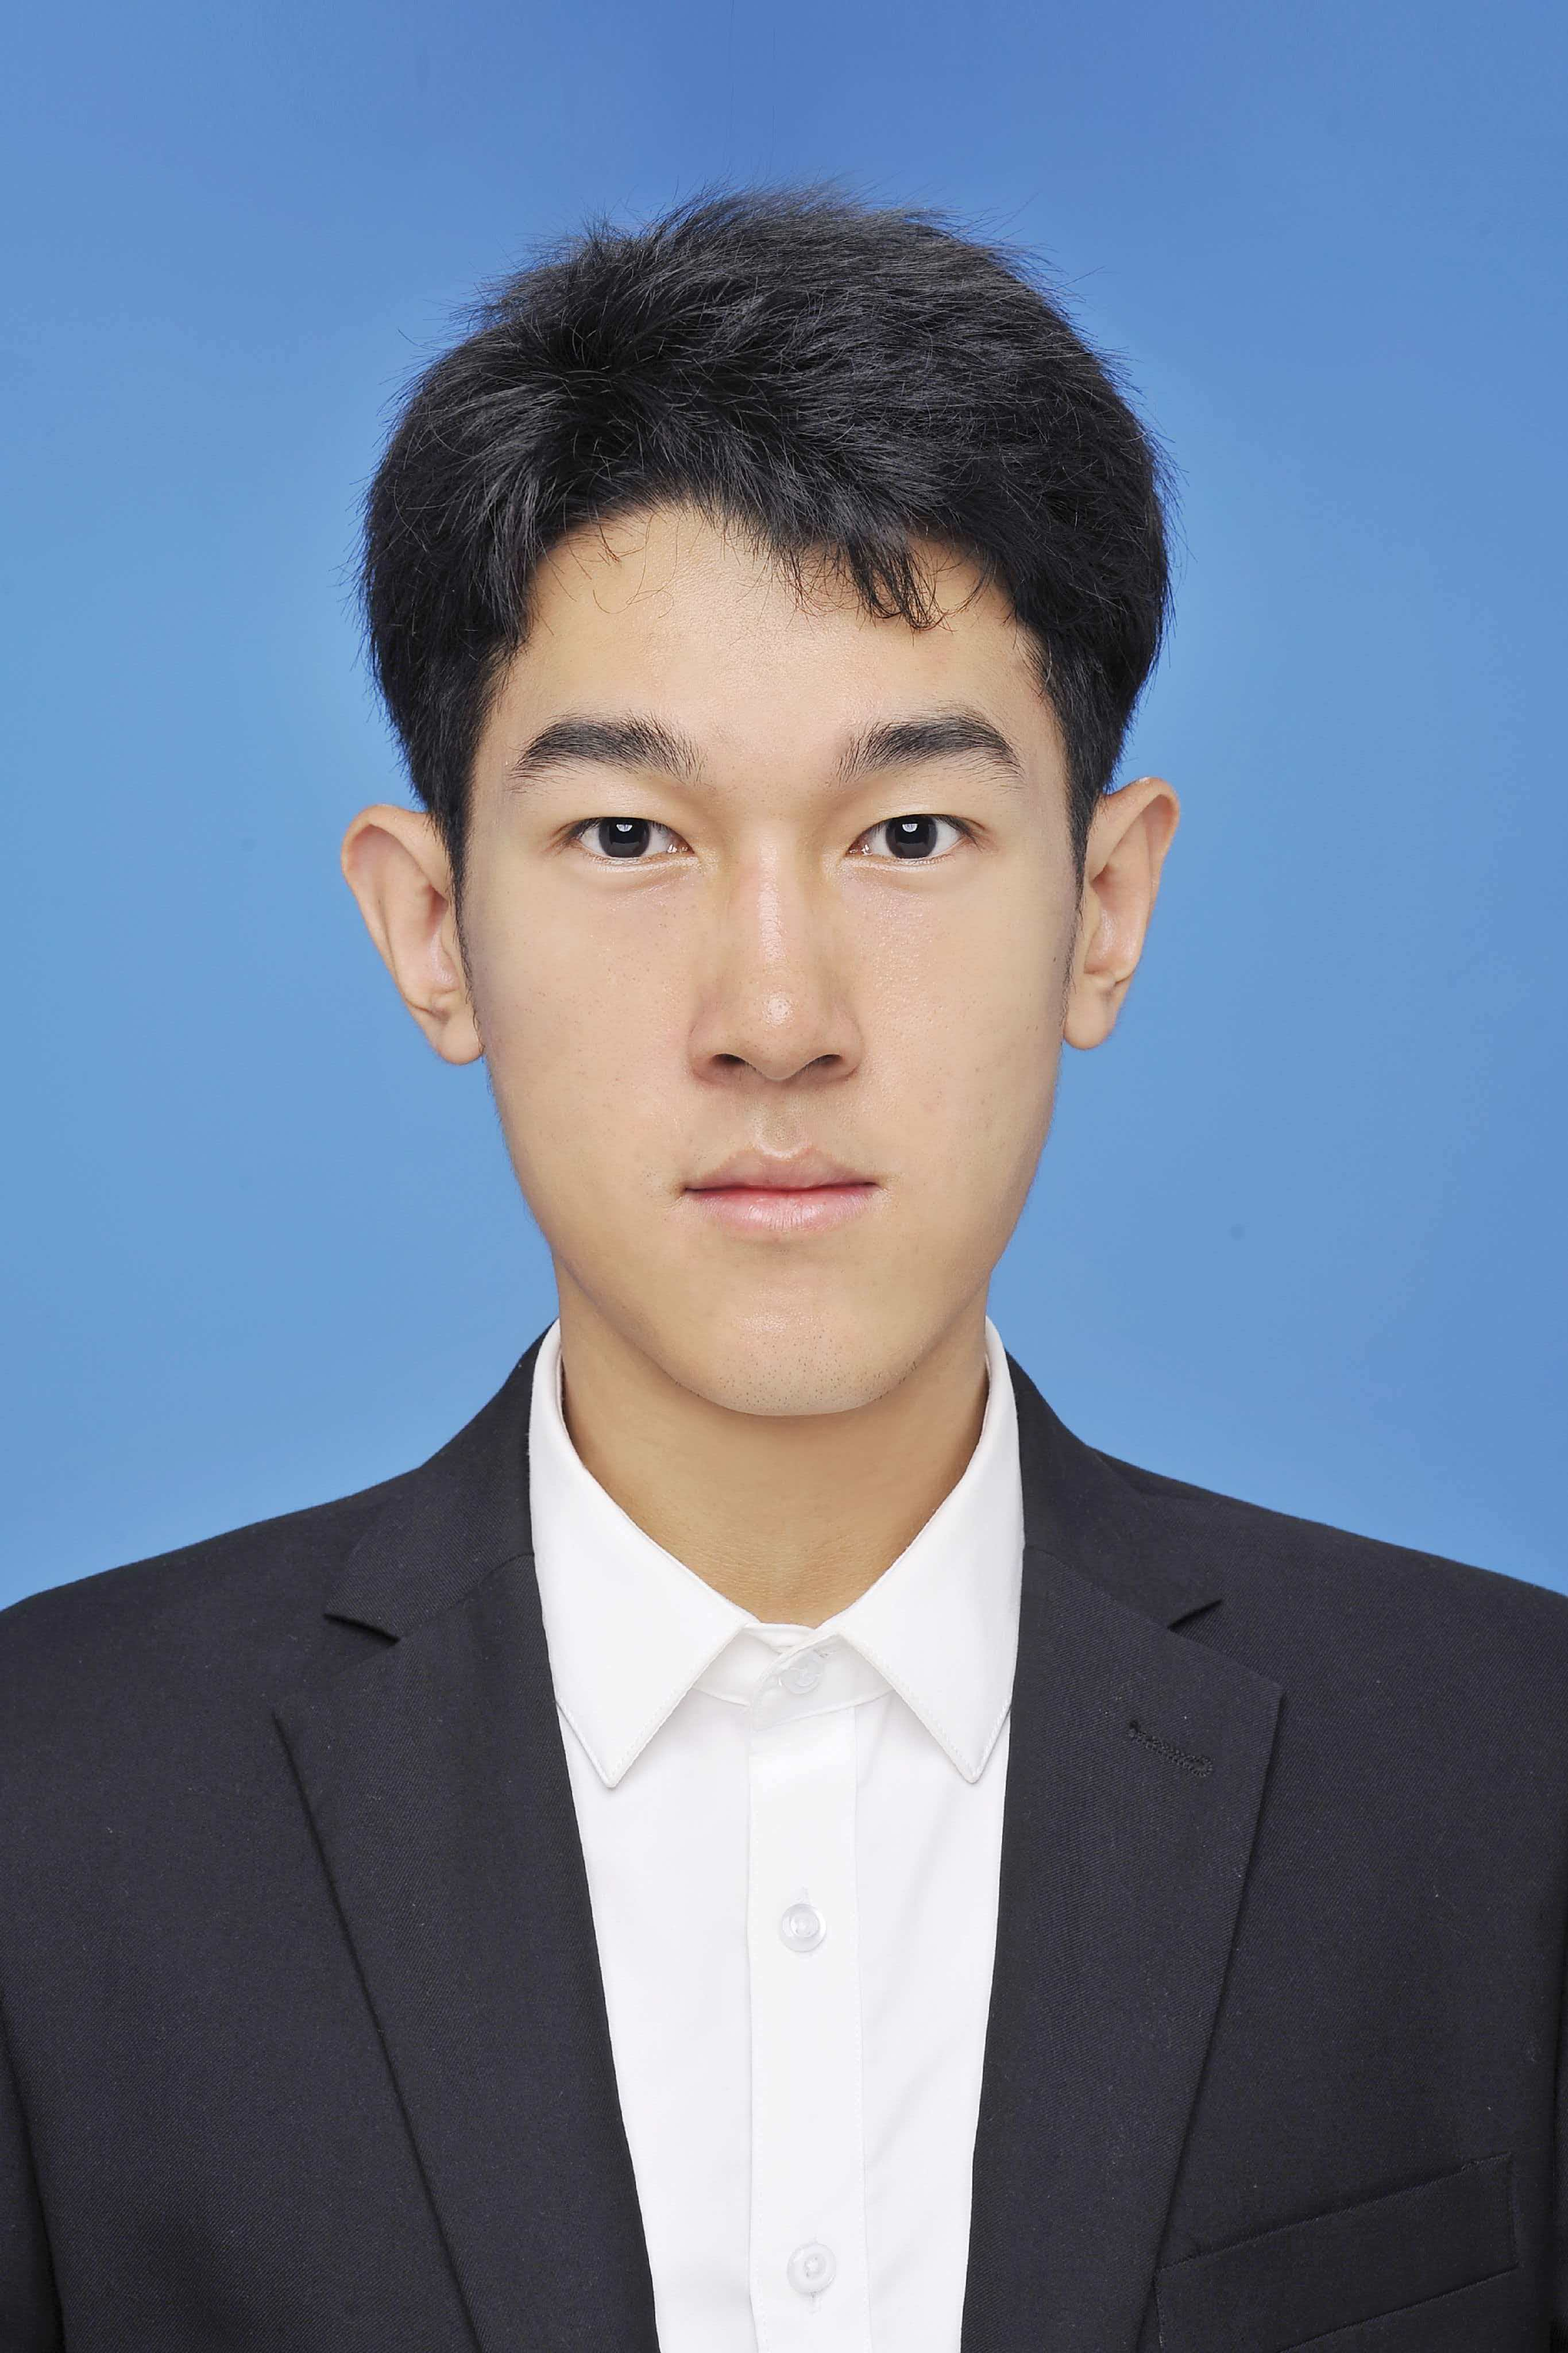
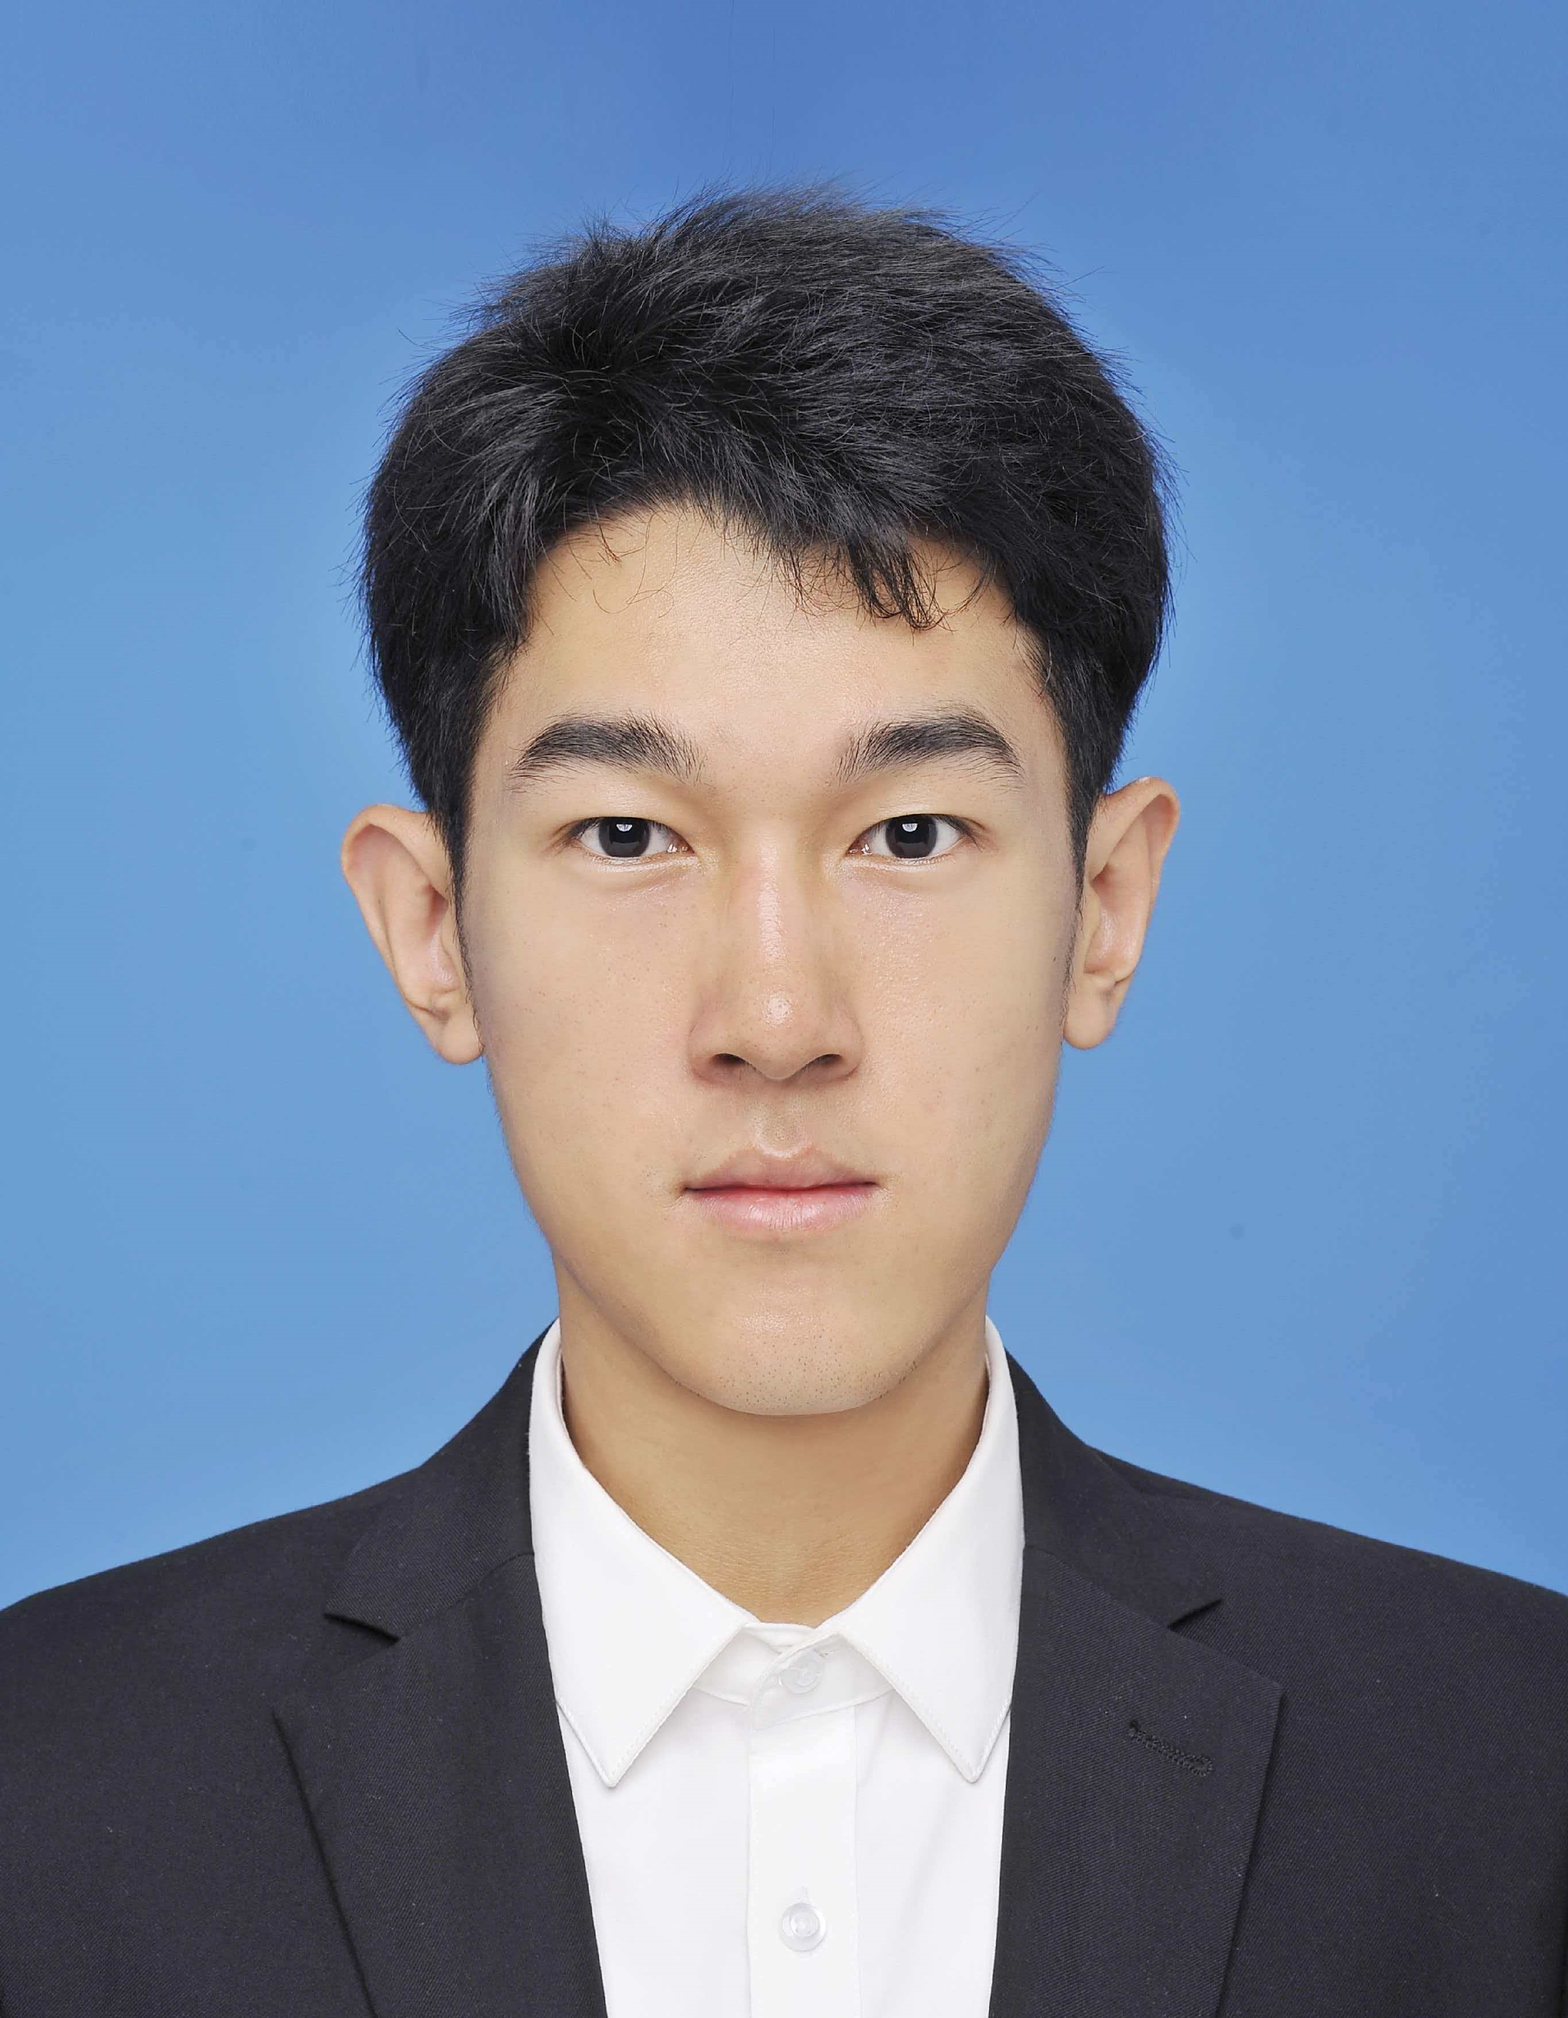
upload

diff --git a/member.html b/member.html
@@ -174,7 +174,7 @@
 			<div class="row">
 				<div class="col col-md-6 col-lg-4 member">
 					<div class="member-portrait member-portrait--alum">
-						<img src='image/member/di_liu.jpg'>
+						<img src='https://pic1.imgdb.cn/i/0345KxtZf2ksDx3cSqNjGW.jpg'>
 					</div>
 					<div class="member-name">Di Liu（刘迪）</div>
 					<div class="member-title">PhD Candidate</div>
@@ -188,7 +188,7 @@
 				
 				<div class="col col-md-6 col-lg-4 member">
 					<div class="member-portrait member-portrait--alum">
-						<img src='image/member/linxin_cheng.jpg'>
+						<img src='https://pic1.imgdb.cn/i/0345Kxuh4DhUWE7uAXZJpG.jpg'>
 					</div>
 					<div class="member-name">Linxin Cheng（成琳鑫）</div>
 					<div class="member-title">PhD Student</div>
@@ -202,7 +202,7 @@
 				
 				<div class="col col-md-6 col-lg-4 member">
 					<div class="member-portrait member-portrait--alum">
-						<img src='image/member/haibin_zhu.jpg'>
+						<img src='https://pic1.imgdb.cn/i/0345Kxs3ClBBURy9vTbS78.jpg'>
 					</div>
 					<div class="member-name">Haibin Zhu（朱海斌）</div>
 					<div class="member-title">PhD Student</div>
@@ -216,7 +216,7 @@
 				
 				<div class="col col-md-6 col-lg-4 member">
 					<div class="member-portrait member-portrait--alum">
-						<img src='image/member/boran_yang.jpg'>
+						<img src='https://pic1.imgdb.cn/i/0345KxtYUcUG5sBJeOAism.jpg'>
 					</div>
 					<div class="member-name">Boran Yang（杨博然）</div>
 					<div class="member-title">PhD Student</div>
@@ -230,7 +230,7 @@
 				
 				<div class="col col-md-6 col-lg-4 member">
 					<div class="member-portrait member-portrait--alum">
-						<img src='image/member/xiaobei_zhang.jpg'>
+						<img src='https://pic1.imgdb.cn/i/0345Kxt4B7Jt0Bi0jMmNAo.jpg'>
 					</div>
 					<div class="member-name">Xiaobei Zhang（张晓蓓）</div>
 					<div class="member-title">PhD Candidate</div>
@@ -244,7 +244,7 @@
 				
 				<div class="col col-md-6 col-lg-4 member">
 					<div class="member-portrait member-portrait--alum">
-						<img src='image/member/yuru_wang.jpg'>
+						<img src='https://pic1.imgdb.cn/i/0345Kxw7sHbYDX8tc064UZ.jpg'>
 					</div>
 					<div class="member-name">Yuru Wang（王誉儒）</div>
 					<div class="member-title">PhD Candidate</div>
@@ -258,7 +258,7 @@
 				
 				<div class="col col-md-6 col-lg-4 member">
 					<div class="member-portrait member-portrait--alum">
-						<img src='image/member/xinran_wang.jpg'>
+						<img src='https://pic1.imgdb.cn/i/0345KxwxpXvY2zHVFoRtGu.jpg'>
 					</div>
 					<div class="member-name">Xinran Wang（王心然）</div>
 					<div class="member-title">Master's Student</div>
@@ -272,7 +272,7 @@
 				
 				<div class="col col-md-6 col-lg-4 member">
 					<div class="member-portrait member-portrait--alum">
-						<img src='image/member/xinyi_geng.jpg'>
+						<img src='https://pic1.imgdb.cn/i/0345KxwX1S9GkbzZmI3jlW.jpg'>
 					</div>
 					<div class="member-name">Xinyi Geng（耿昕怡）</div>
 					<div class="member-title">Master's Student</div>
@@ -286,7 +286,7 @@
 				
 				<div class="col col-md-6 col-lg-4 member">
 					<div class="member-portrait member-portrait--alum">
-						<img src='image/member/haocong_qian.jpg'>
+						<img src='https://pic1.imgdb.cn/i/0345Kxvs56RucClof0nC43.jpg'>
 					</div>
 					<div class="member-name">Haocong Qian（钱昊聪）</div>
 					<div class="member-title">Research Intern</div>
